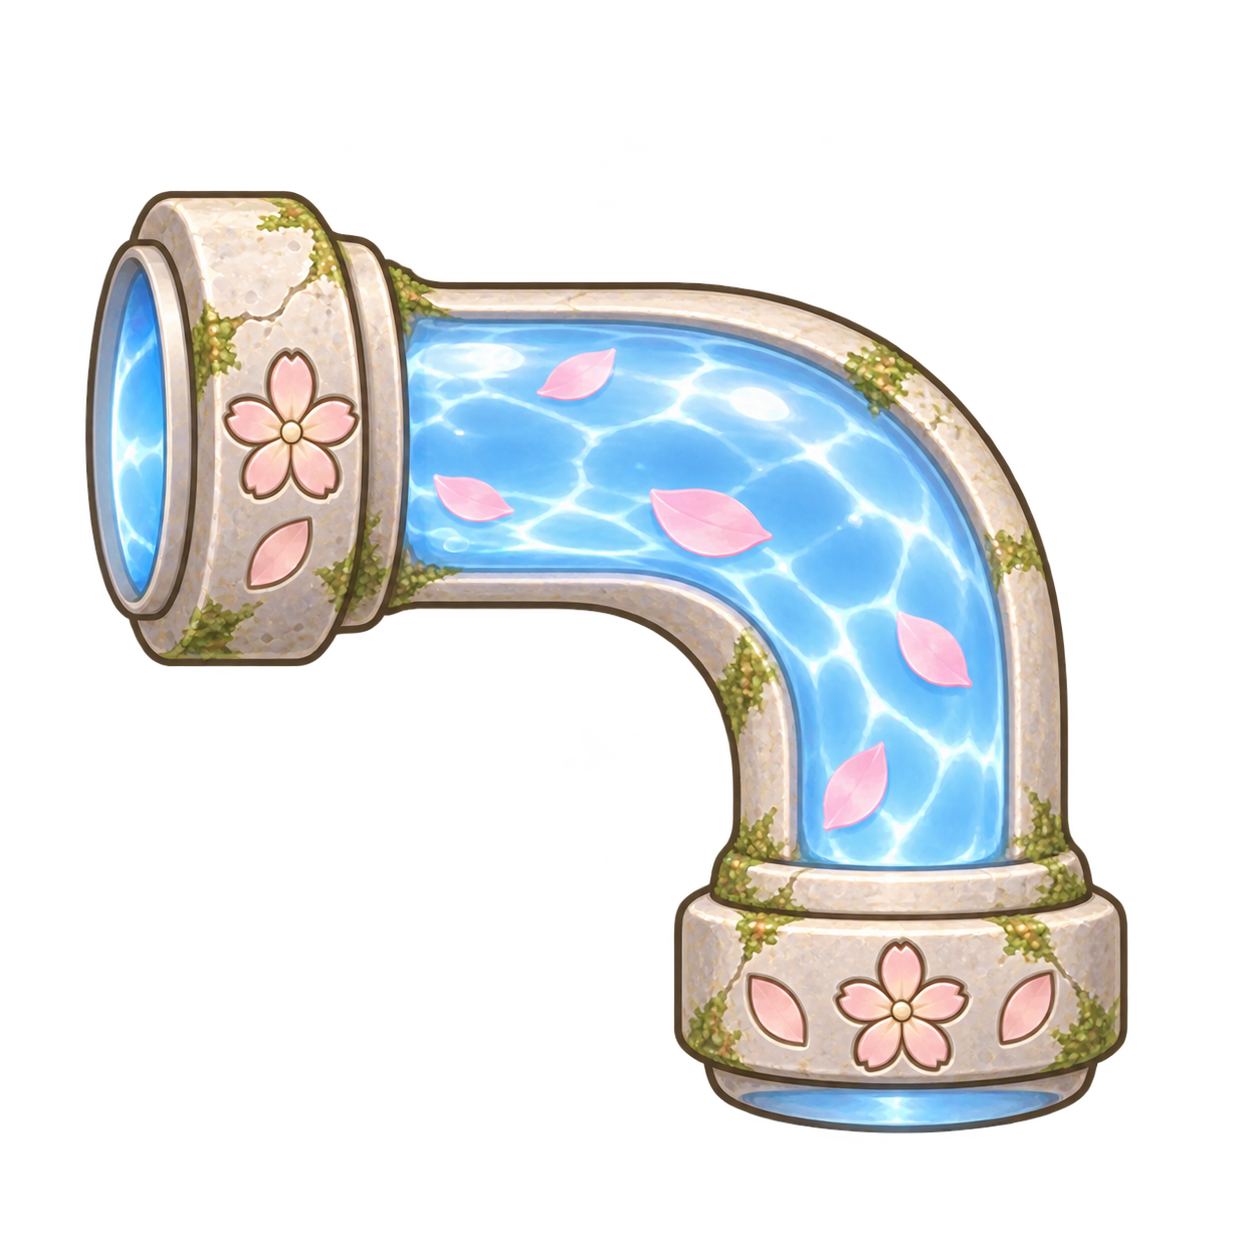
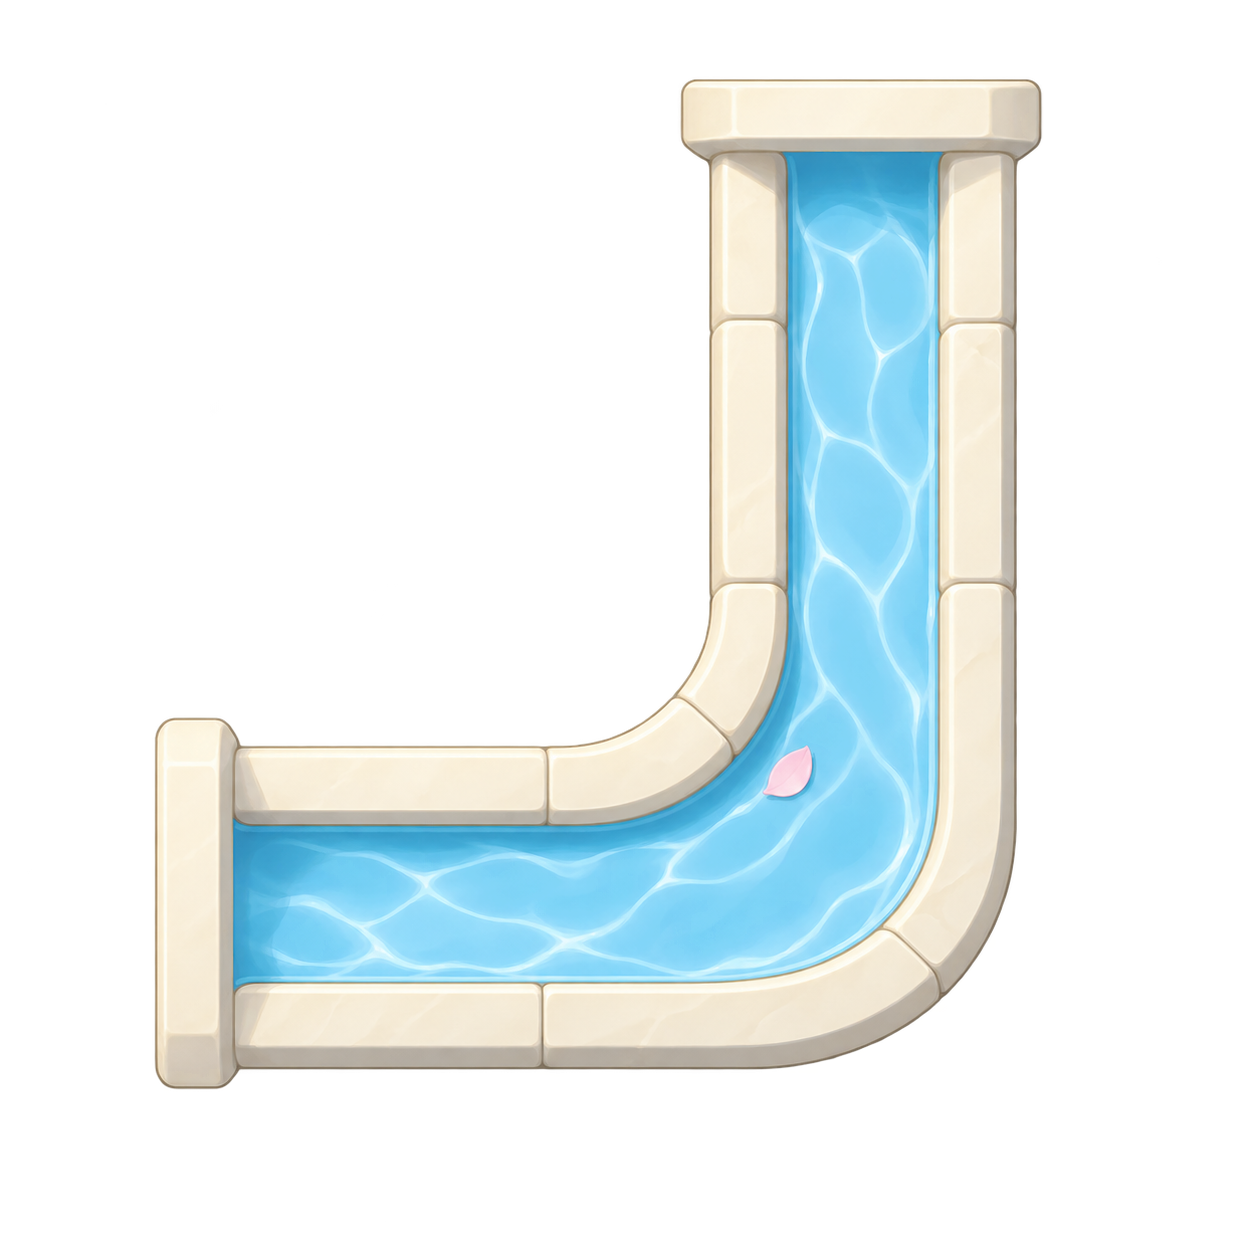
Polish Sakura theme visuals and background setup
Refreshes Sakura pipe sprites and retunes the Sakura gameplay theme color palette for a warmer UI look. Also updates `WorldPresentationController` to reuse an existing world background renderer and clean up duplicate background children, preventing stacked background objects when themes are applied.

diff --git a/Assets/Scripts/UI/WorldPresentationController.cs b/Assets/Scripts/UI/WorldPresentationController.cs
@@ -7,6 +7,8 @@ namespace PipeMuzzle.UI
     [DisallowMultipleComponent]
     public sealed class WorldPresentationController : MonoBehaviour
     {
+        private const string BackgroundObjectName = "WorldGameplayBackground";
+
         private SpriteRenderer backgroundRenderer;
         private WorldGameplayTheme activeTheme;
 
@@ -34,14 +36,39 @@ namespace PipeMuzzle.UI
 
             if (backgroundRenderer == null)
             {
-                GameObject background = new GameObject("WorldGameplayBackground");
-                background.transform.SetParent(camera.transform, false);
-                background.transform.localPosition = new Vector3(0f, 0f, 20f);
-                backgroundRenderer = background.AddComponent<SpriteRenderer>();
-                backgroundRenderer.sortingOrder = -1000;
+                backgroundRenderer = FindOrCreateBackgroundRenderer(camera);
             }
 
             backgroundRenderer.sprite = theme.BackgroundSprite;
+        }
+
+        private static SpriteRenderer FindOrCreateBackgroundRenderer(Camera camera)
+        {
+            SpriteRenderer existingRenderer = null;
+
+            for (int index = camera.transform.childCount - 1; index >= 0; index--)
+            {
+                Transform child = camera.transform.GetChild(index);
+                if (child.name != BackgroundObjectName) continue;
+
+                SpriteRenderer candidate = child.GetComponent<SpriteRenderer>();
+                if (existingRenderer == null && candidate != null)
+                {
+                    existingRenderer = candidate;
+                    continue;
+                }
+
+                Destroy(child.gameObject);
+            }
+
+            if (existingRenderer != null) return existingRenderer;
+
+            GameObject background = new(BackgroundObjectName);
+            background.transform.SetParent(camera.transform, false);
+            background.transform.localPosition = new Vector3(0f, 0f, 20f);
+            SpriteRenderer renderer = background.AddComponent<SpriteRenderer>();
+            renderer.sortingOrder = -1000;
+            return renderer;
         }
     }
 }
